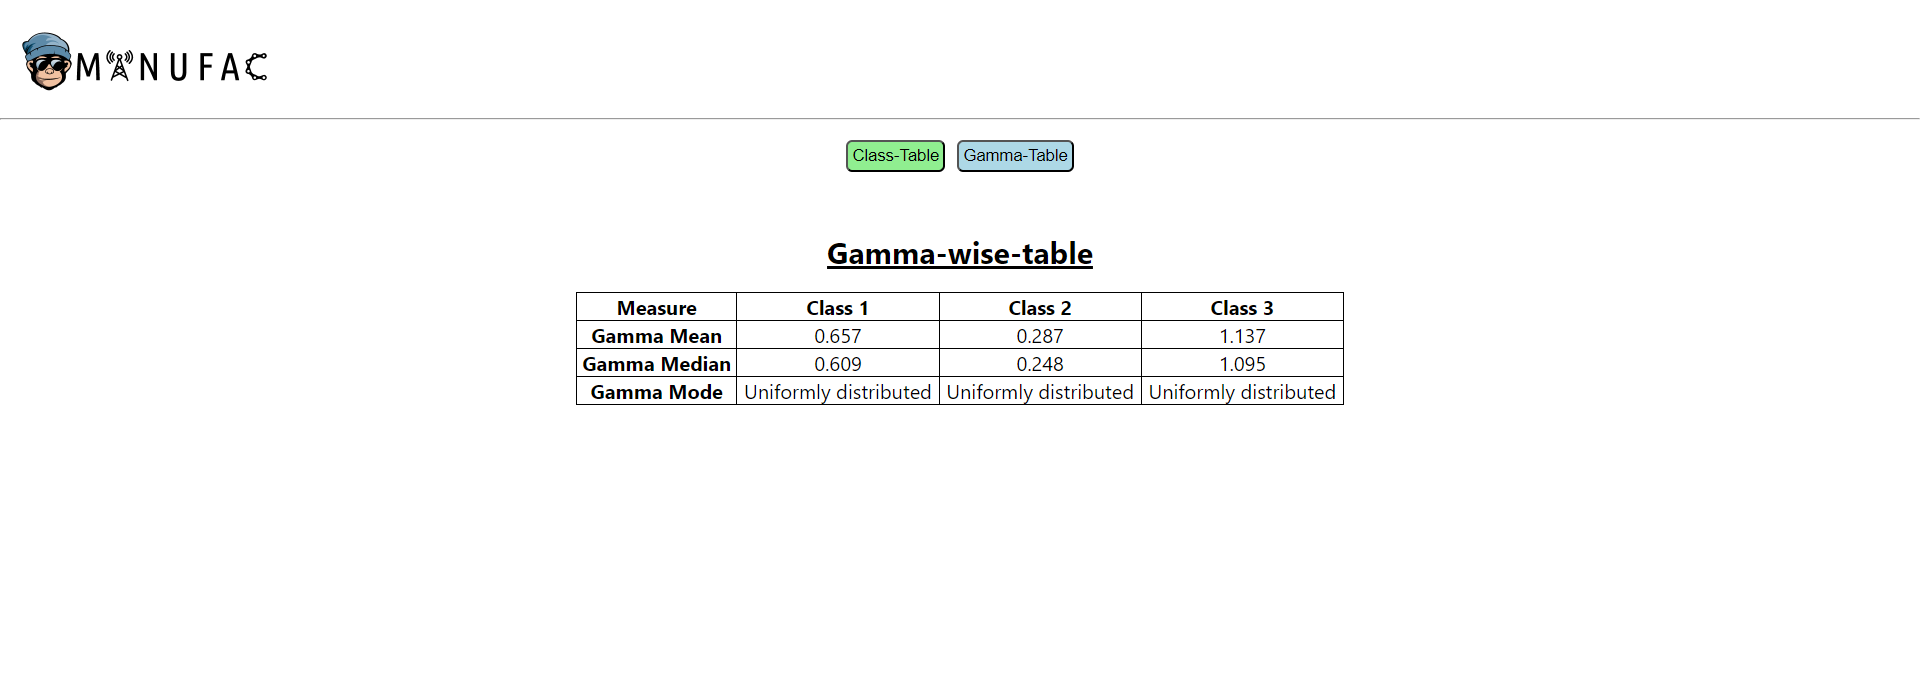
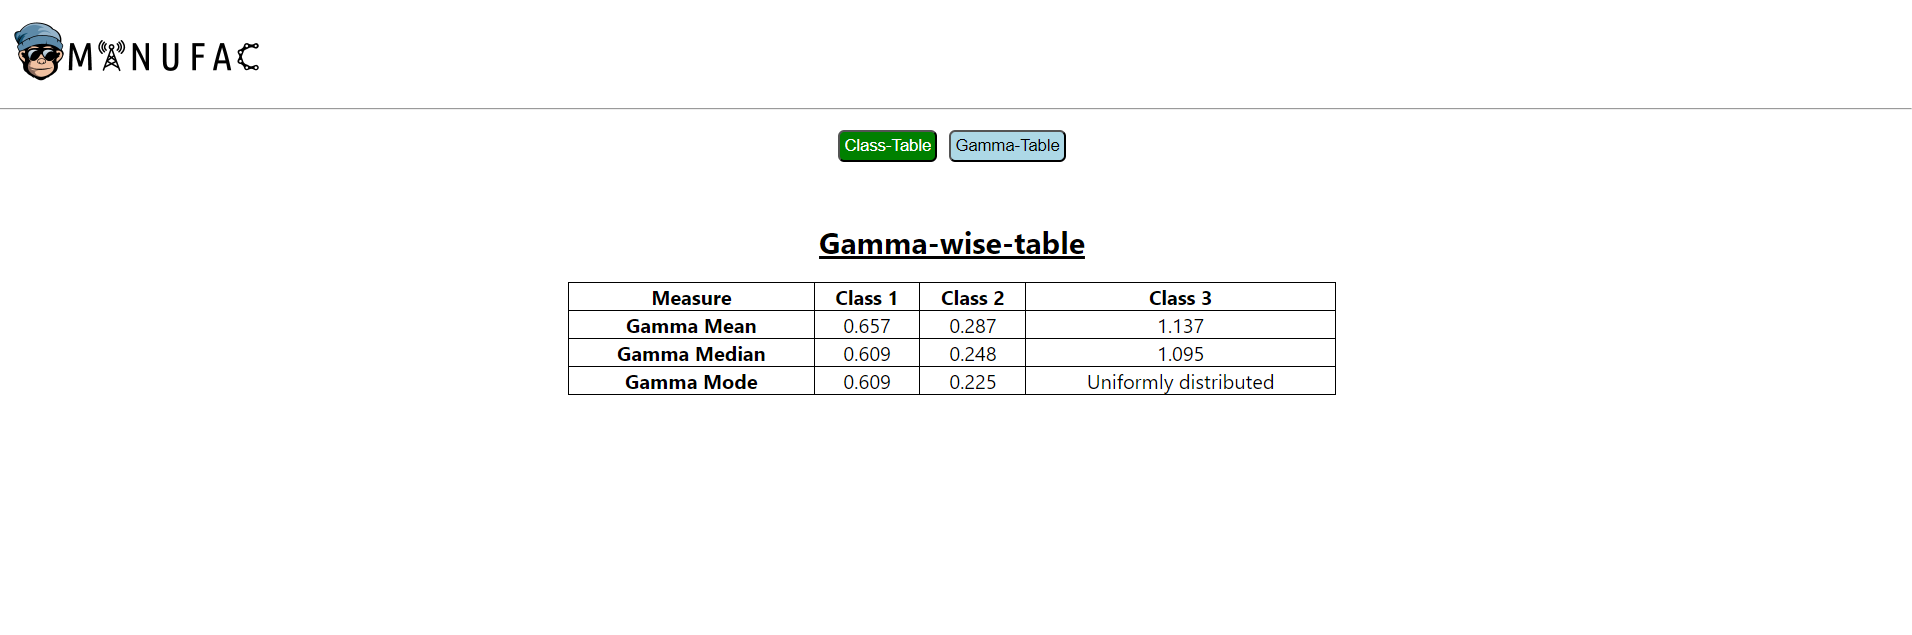
Fixed mode values

Changed region(s): [[0.2777, 0.3591, 0.7097, 0.6283], [0.0, 0.0299, 1.0, 0.2693]]

diff --git a/src/components/Gamma.tsx b/src/components/Gamma.tsx
@@ -14,7 +14,6 @@ const Gamma: React.FC = () => {
   const [tableData, setTableData] = useState<TableRow[]>([]);
 
     const mean = (values: any) => {
-
       if (values.length === 0) {
         return 0; // Avoid division by zero for an empty array
       }
@@ -117,13 +116,13 @@ const Gamma: React.FC = () => {
                }
                else {
                 let class1 = wineData.filter((ele) => ele.Alcohol === 1);
-                let gammaValues1 = class1.map((ele) => (+ele.Ash * +ele.Hue) / +ele.Magnesium);
+                let gammaValues1 = class1.map((ele) => ((+ele.Ash * +ele.Hue) / +ele.Magnesium).toFixed(3));
                 let class1Result = mode(gammaValues1);
                 let class2 = wineData.filter((ele) => ele.Alcohol === 2);
-                let gammaValues2 = class2.map((ele) => (+ele.Ash * +ele.Hue) / +ele.Magnesium);
+                let gammaValues2 = class2.map((ele) => ((+ele.Ash * +ele.Hue) / +ele.Magnesium).toFixed(3));
                 let class2Result =  mode(gammaValues2);
                 let class3 = wineData.filter((ele) => ele.Alcohol === 3);
-                let gammaValues3 = class3.map((ele) =>(+ele.Ash * +ele.Hue) / +ele.Magnesium);
+                let gammaValues3 = class3.map((ele) =>((+ele.Ash * +ele.Hue) / +ele.Magnesium).toFixed(3));
                 let class3Result = mode(gammaValues3);
                 obj.classs1 = class1Result;
                 obj.classs2 = class2Result;

diff --git a/src/components/Class.tsx b/src/components/Class.tsx
@@ -42,6 +42,7 @@ const Class: React.FC = () => {
     }
 
     function mode(values: any) {
+      
       if (values.length === 0) {
         return 'No mode for an empty array';
       }
